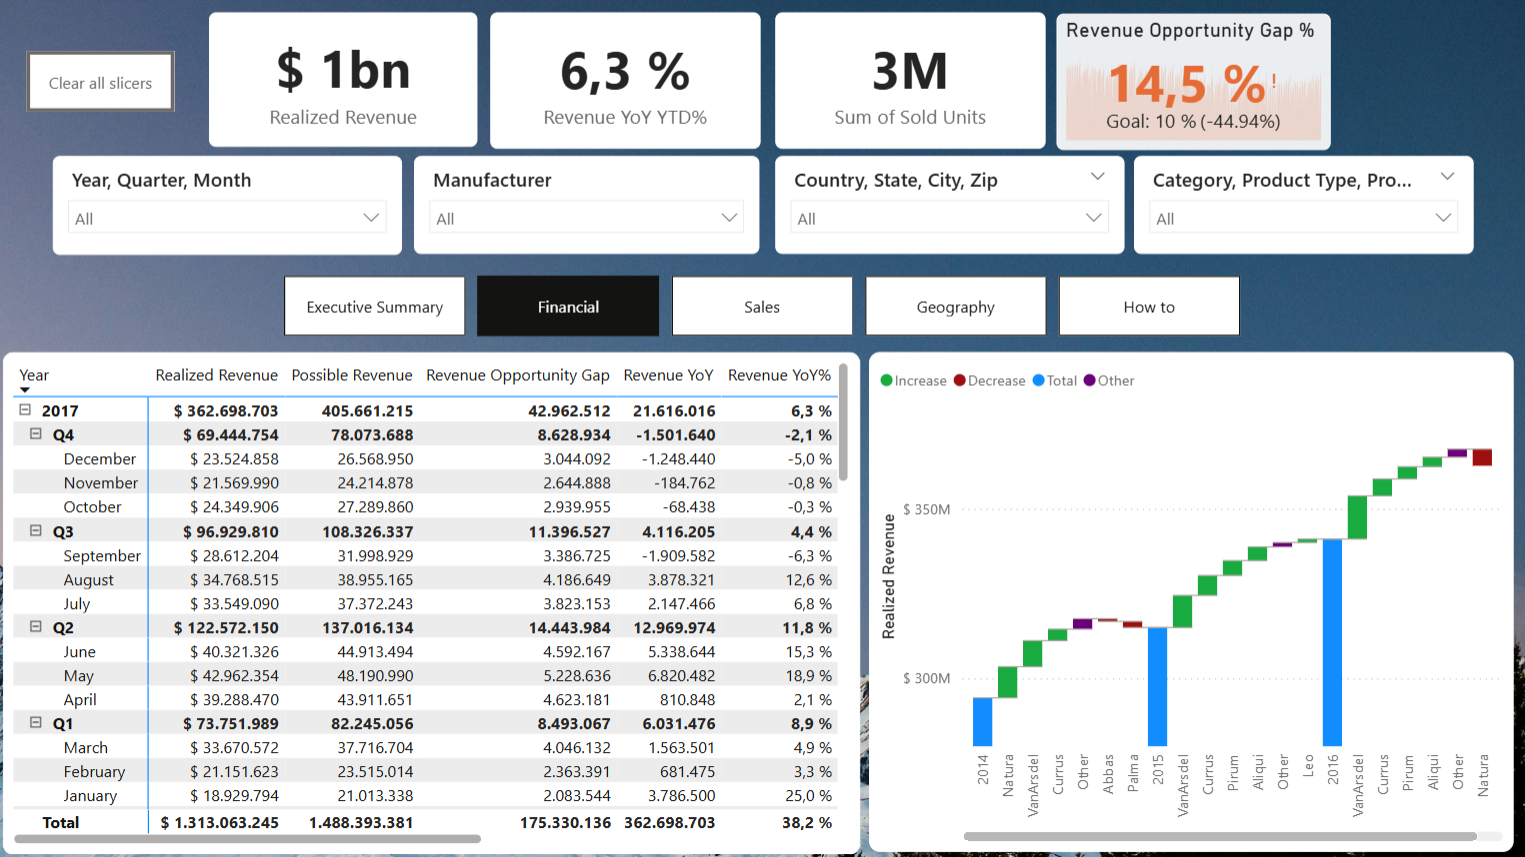
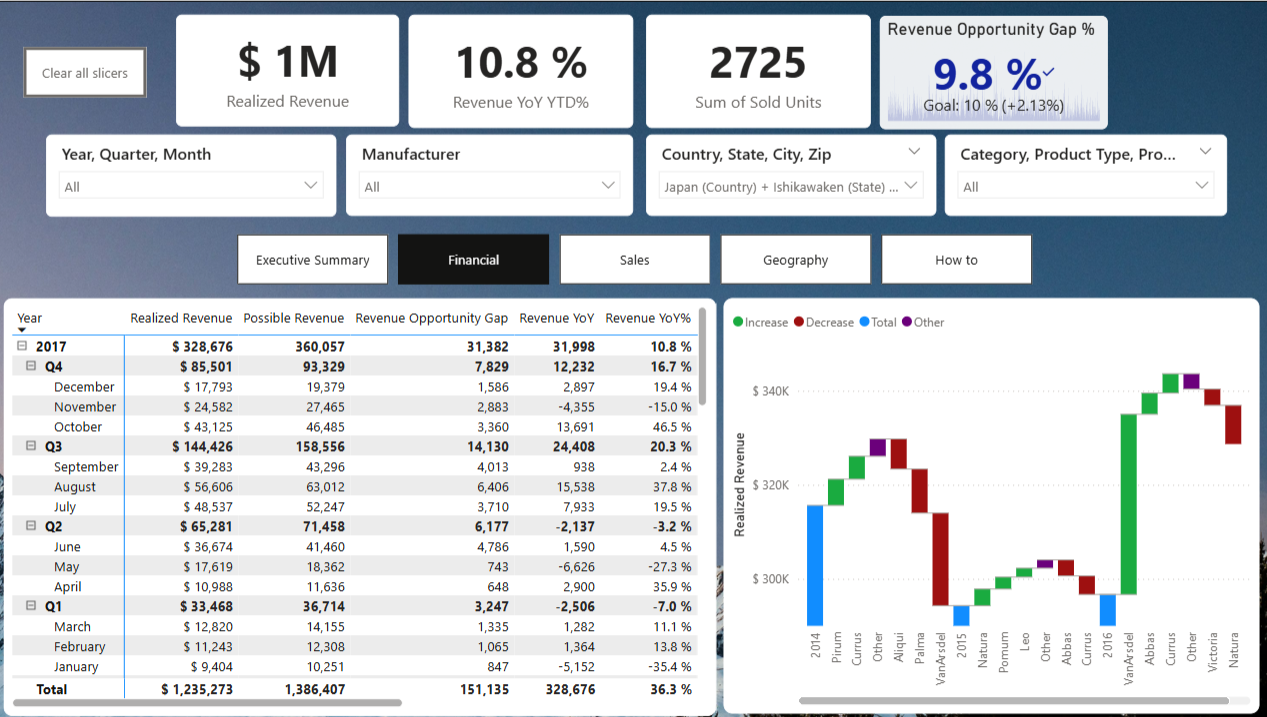
docs: update project documentation and add dashboard screenshots

Changed region(s): [[0.0, 0.0, 1.0, 1.0], [0.0, 0.0614, 0.1231, 0.1534], [0.8003, 0.6444, 0.8311, 0.675]]

diff --git a/README.md b/README.md
@@ -1,55 +1,198 @@
 # Global Retail BI Application
 
-**Business Intelligence Application - Winter Term 2025/2026**
+**Power BI Sales and Financial Analytics Project**
+
+This project presents an interactive Business Intelligence application developed to analyze retail sales across three international markets: **the United States, Germany and Japan**.
+
+The report combines transactional data from the three countries and provides management views for revenue, sales volume, product performance, geographic analysis and year-over-year comparisons.
+
+![Global Retail Dashboard](images/executive_summary.png)
 
 ---
 
 ## Project Overview
 
-This repository contains a comprehensive Business Intelligence application developed for a global retail company. The project focuses on providing management with deep, actionable insights into sales performance across three international markets: **USA, Germany, and Japan**.
+The objective of the project was to build a Power BI report that could support monthly management reviews and help identify sales trends, revenue gaps and performance drivers.
 
-The solution handles raw transactional data through a fully automated ETL pipeline, ensuring a scalable and data-driven reporting environment.
+The original data sources had different structures, languages and regional formats. The complete data preparation process was implemented in Power Query, without modifying the raw files externally.
 
----
-
-## Key Features & Requirements
-
-The application delivers:
-
-- **Automated ETL Pipeline**: Data cleaning and transformation performed entirely within Power Query (M) without modifying raw files.
-- **Star Schema Architecture**: Optimized data model featuring a central Fact Table (`F_Sales`) and dimensions for Geography, Products, Manufacturers, and Time.
-- **Revenue Gap Analysis**: Strategic framework comparing *Realized Revenue* vs. *Possible Revenue* to identify efficiency leaks.
-- **Geographical Intelligence**: Detailed drill-down capabilities from country and city levels to specific ZIP codes.
-- **Advanced Visualization**: Integration of specialized ArcGIS Heat Maps and AI-powered Decomposition Trees for root-cause analysis.
+Users can analyze performance from a general country-level view and drill down into manufacturers, product categories, cities and ZIP codes.
 
 ---
 
-## Technical Deep Dive
+## Business Questions
 
-### Data Modeling (Star Schema)
+The report was designed to answer questions such as:
 
-The model is built on a single central gateway (`MasterSource`) to ensure data consistency and high refresh performance.
+- How much revenue is generated across the three markets?
+- How is current revenue performing compared with the previous year?
+- What is the difference between realized and possible revenue?
+- Which periods and manufacturers explain revenue growth or decline?
+- Which countries account for the largest share of unit sales?
+- Which manufacturers, product types and categories perform best?
+- How do revenue and unit sales change over time?
+- Which cities and ZIP code areas have the strongest performance?
+- What factors explain changes in total sales volume?
 
-- **Fact Table**: Consolidates transactional data from USA, Germany, and Japan.
-- **D_Date**: Dedicated calendar table (2014-2017) supporting Time Intelligence calculations.
-- **Hierarchies**: Implemented Time (Y-Q-M), Product (Category-Type), and Geography (Country-State-City-ZIP) hierarchies for intuitive navigation.
+---
 
-### Analytical Measures (DAX)
+## Dashboard Pages
 
-Key metrics developed to evaluate business trajectory and growth:
+### Executive Summary
 
-- **Realized Revenue**: Total actual income.
-- **Revenue Opportunity Gap %**: Efficiency ratio flagging performance below a 10% tolerance threshold.
-- **Historical Comparisons**: Year-to-Date (YTD), Year-over-Year (YoY), and cumulative progress vs. previous year baselines.
+The executive view provides a general overview of realized revenue, units sold, year-over-year performance and the revenue opportunity gap.
+
+It also allows users to compare the three countries and review cumulative revenue against the previous year.
+
+### Financial Analysis
+
+The financial page compares realized revenue, possible revenue and revenue opportunity gaps by year, quarter and month.
+
+The waterfall chart helps identify which manufacturers contributed to revenue increases or decreases.
+
+![Financial Analysis](images/financial.png)
+
+### Sales Analysis
+
+The sales page compares performance by country, manufacturer, product type and category.
+
+It also shows the relationship between revenue and sales volume over time.
+
+![Sales Analysis](images/sales.png)
+
+### Geographic Analysis
+
+The geographic page allows users to explore sales by location and identify geographic concentrations of sales volume.
+
+The decomposition tree provides additional analysis by manufacturer, category and product.
+
+![Geographic Analysis](images/geography.png)
+
+---
+
+## Example Findings
+
+Some findings obtained from the report include:
+
+- Kanazawashi was the highest-revenue city outside the United States in 2017.
+- The city generated approximately **$5.2 million** in realized revenue.
+- Revenue in Kanazawashi increased by approximately **2.36%** compared with 2016.
+- ZIP code **920-0952** was the highest-performing area within the city.
+- Currus and Pirum were the main positive contributors to revenue growth.
+- Urban, Rural and Youth were the leading product categories in Kanazawashi.
+
+---
+
+## Data Preparation
+
+The ETL process was developed entirely in Power Query.
+
+The main preparation steps included:
+
+- Importing transactional data from the United States, Germany and Japan.
+- Standardizing column names across the three datasets.
+- Correcting regional date and number formats.
+- Cleaning city names and ZIP codes.
+- Combining the country-level sales tables.
+- Creating dimension tables for date, product, manufacturer and geography.
+- Connecting transactional records with the corresponding dimension keys.
+
+A central query called `MasterSource` was used as the source for the dimension tables, reducing repeated access to the original master data file.
+
+---
+
+## Data Model
+
+The model follows a star-schema structure with `Fact_Sales` as the central fact table.
+
+The fact table is connected to four dimensions:
+
+- `D_Date`
+- `D_Product`
+- `D_Manufacturer`
+- `D_Geo`
+
+![Star Schema](images/star_schema.png)
+
+The model also includes the following hierarchies:
+
+- **Time:** Year → Quarter → Month
+- **Product:** Category → Product Type → Product
+- **Geography:** Country → State → City → ZIP
+
+---
+
+## Analytical Measures
+
+The main DAX measures developed for the report include:
+
+- **Realized Revenue:** Actual revenue generated from sales.
+- **Possible Revenue:** Estimated revenue calculated as sold units multiplied by product price.
+- **Revenue Opportunity Gap:** Difference between possible and realized revenue.
+- **Revenue Opportunity Gap %:** Percentage of potential revenue not realized.
+- **Revenue YTD:** Cumulative revenue from the beginning of the year.
+- **Revenue Previous Year:** Revenue generated during the previous year.
+- **Revenue YoY %:** Percentage change compared with the previous year.
+- **Revenue YoY YTD %:** Year-to-date change compared with the same period of the previous year.
+
+A 10% threshold was used to highlight revenue opportunity gaps requiring further analysis.
+
+---
+
+## Main Features
+
+- Data cleaning and transformation using Power Query.
+- Consolidation of sales data from three international markets.
+- Dimensional modeling using a star schema.
+- Time-intelligence calculations using DAX.
+- Drill-down by time, geography and product.
+- Revenue and sales comparisons against previous-year performance.
+- Geographic analysis using ArcGIS maps.
+- Root-cause exploration using a decomposition tree.
+- Interactive slicers, navigation buttons and bookmarks.
+
+---
+
+## How to Use the Report
+
+- Use the navigation buttons to move between report pages.
+- Filter the report by time, manufacturer, geography or product.
+- Use drill-down controls to explore months, cities and ZIP codes where available.
+- Select a visual element to filter the related charts.
+- Select **Clear all slicers** to return to the default report view.
+
+<details>
+<summary>View the complete report instructions</summary>
+
+![Power BI Quick Start](images/how_to.png)
+
+</details>
+
+---
+
+## Tools Used
+
+- Power BI Desktop
+- Power Query
+- DAX
+- Dimensional Modeling
+- ArcGIS Maps for Power BI
+- Decomposition Tree
+- Git and GitHub
 
 ---
 
 ## Repository Structure
 
 ```text
-├── docs/               # Technical Documentation (PDF)
-├── src/                # Power BI Project files (.pbip format)
-├── .gitignore          # Configured to exclude raw data
-└── README.md           # Project summary and overview
-```
-
+├── docs/                    # Technical documentation
+├── images/                  # Dashboard screenshots
+│   ├── executive_summary.png
+│   ├── financial.png
+│   ├── sales.png
+│   ├── geography.png
+│   ├── star_schema.png
+│   └── how_to.png
+├── src/                     # Power BI Project files
+├── .gitignore               # Excludes raw and temporary files
+└── README.md                # Project overview